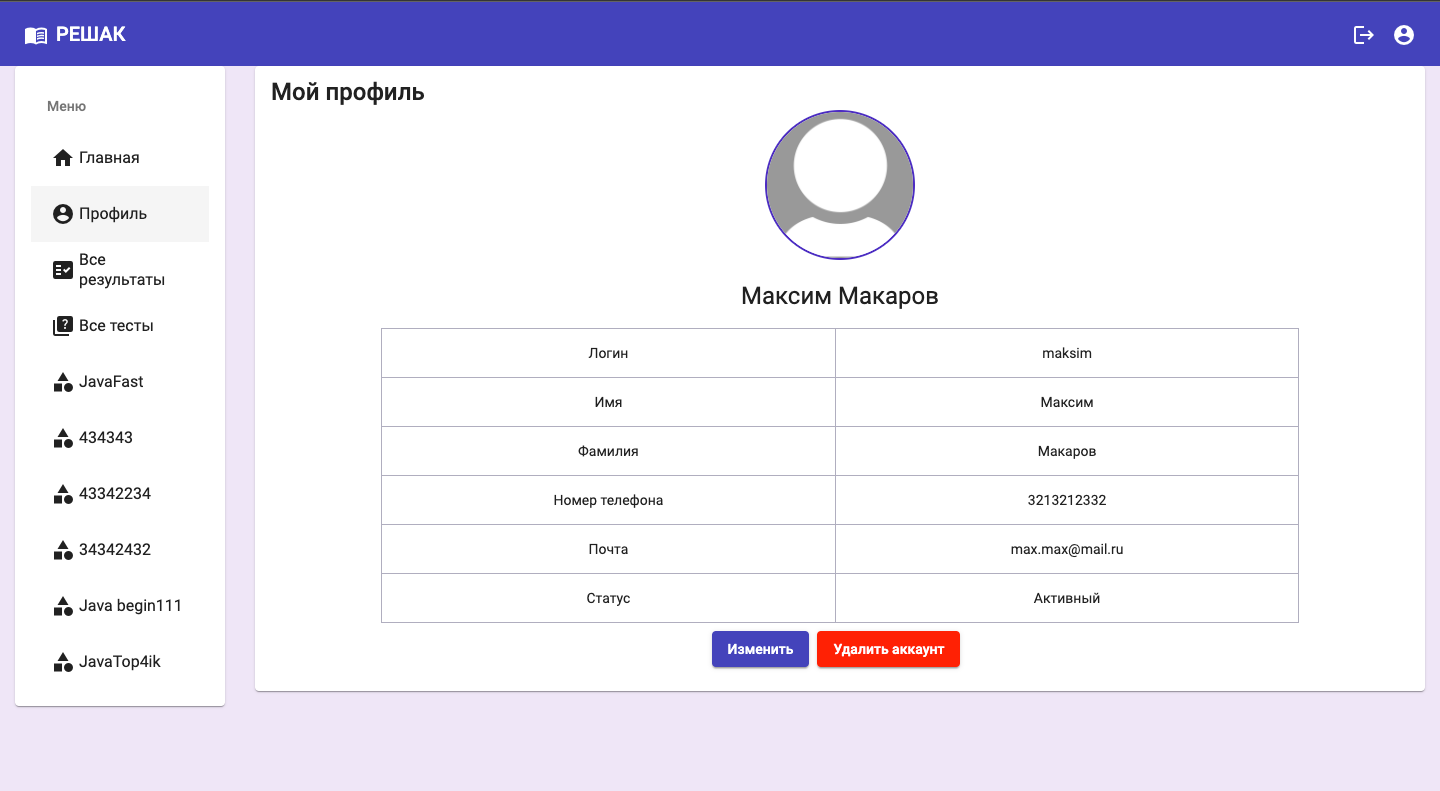
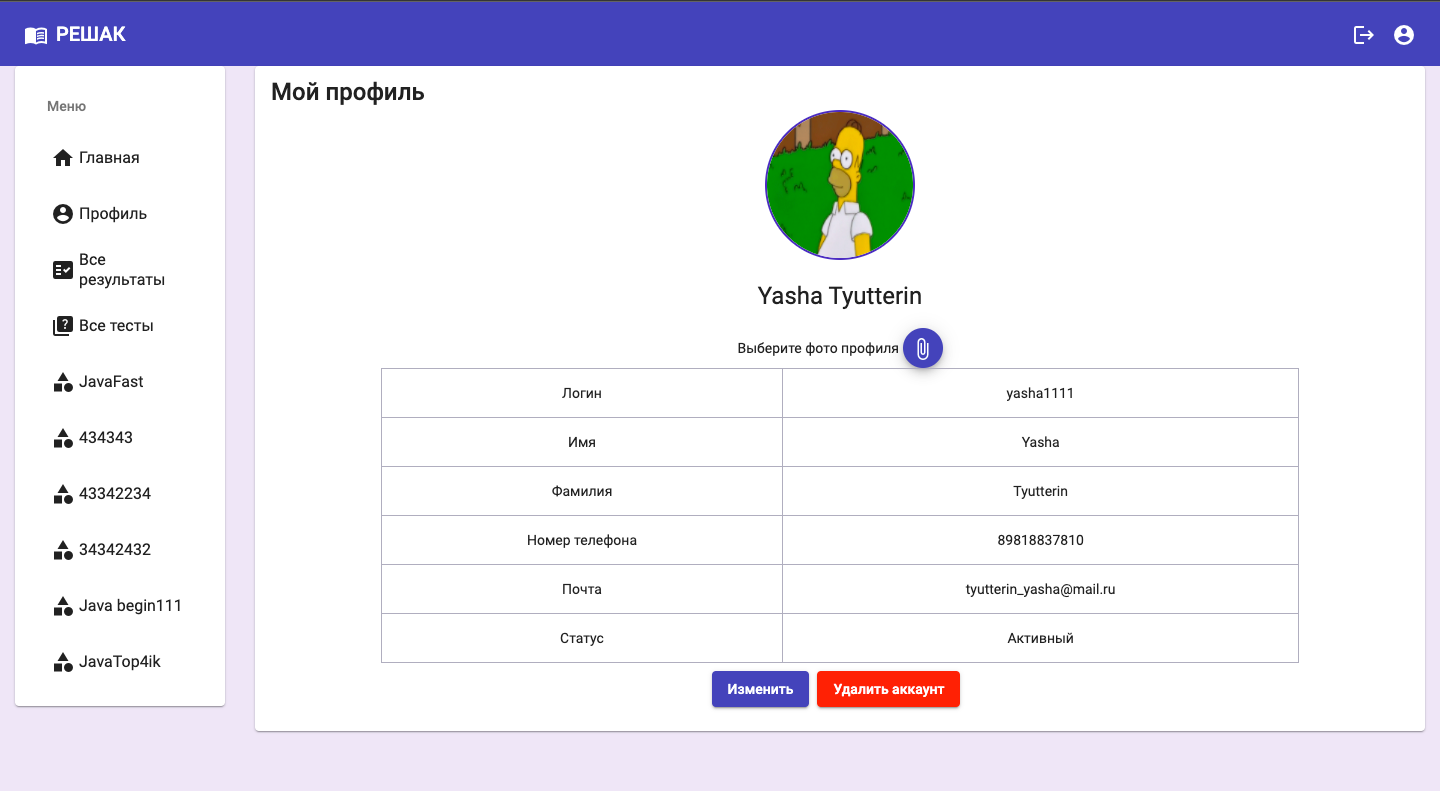
Add update and view profile image user and admin, refactoring

diff --git a/src/main/java/portal/controller/UserController.java b/src/main/java/portal/controller/UserController.java
@@ -1,5 +1,6 @@
 package portal.controller;
 
+import java.io.IOException;
 import java.security.Principal;
 
 import javax.validation.Valid;
@@ -13,11 +14,15 @@ import org.springframework.security.access.prepost.PreAuthorize;
 import org.springframework.validation.BindingResult;
 import org.springframework.web.bind.annotation.CrossOrigin;
 import org.springframework.web.bind.annotation.DeleteMapping;
+import org.springframework.web.bind.annotation.GetMapping;
 import org.springframework.web.bind.annotation.PostMapping;
 import org.springframework.web.bind.annotation.PutMapping;
 import org.springframework.web.bind.annotation.RequestBody;
 import org.springframework.web.bind.annotation.RequestMapping;
+import org.springframework.web.bind.annotation.RequestParam;
+import org.springframework.web.bind.annotation.ResponseBody;
 import org.springframework.web.bind.annotation.RestController;
+import org.springframework.web.multipart.MultipartFile;
 
 import portal.exception.InvalidDataException;
 import portal.exception.NotPermissionException;
@@ -32,11 +37,14 @@ import portal.service.UserService;
 public class UserController {
 
 	private static final Logger logger = LoggerFactory.getLogger(UserController.class);
-	@Autowired
+	
 	private UserService userService;
 	
-	
-	
+	@Autowired
+	public UserController(UserService userService) {
+		super();
+		this.userService = userService;
+	}
 	
 	@PostMapping("/")
 	public ResponseEntity<?> createUser(@RequestBody @Valid User user, BindingResult result) {
@@ -82,6 +90,44 @@ public class UserController {
 	public void deleteUser(Principal principal) {
 	
 		userService.deleteUser(principal.getName());
+	}
+	
+	@GetMapping("/image")
+	@PreAuthorize("hasAuthority('developers:read')")
+	public ResponseEntity<?> getImageProfile(Principal principal){
+		
+		try {
+			return ResponseEntity.ok(userService.getImageProfile(principal.getName()));
+		} catch (UserNotFoundException e) {
+			logger.error("Пользователь не найден", e);
+			return new ResponseEntity<>(HttpStatus.FORBIDDEN);
+		} catch (IOException e) {
+			logger.error("Ошибка при чтении файла", e);
+			return new ResponseEntity<>(HttpStatus.BAD_REQUEST);
+		} catch(NullPointerException ex) {
+			logger.error("Необходима переавторизация", ex);
+			return new ResponseEntity<>(HttpStatus.FORBIDDEN);
+		}
+	}
+	@PostMapping("/image")
+	@PreAuthorize("hasAuthority('developers:read')")
+	public ResponseEntity<?> addImageProfile(@RequestParam("image") MultipartFile file, Principal principal){
+		try {
+			if(file.isEmpty()||principal.getName().isEmpty()) {
+				throw new NullPointerException();
+			}
+			userService.addImageProfile(principal.getName(), file);
+			return new ResponseEntity<>(HttpStatus.OK);
+		} catch(NullPointerException ex) {
+			logger.error("Файл не отправлен или principal пуст", ex);
+			return new ResponseEntity<>(HttpStatus.BAD_REQUEST);
+		} catch(IOException e) {
+			logger.error("Ошибка при записи файла", e);
+			return new ResponseEntity<>(HttpStatus.BAD_REQUEST);
+		} catch (UserNotFoundException e) {
+			logger.error("Ошибка пользователя", e);
+			return new ResponseEntity<>(HttpStatus.FORBIDDEN);
+		}
 	}
 	
 }

diff --git a/src/main/java/portal/service/impl/UserServiceImpl.java b/src/main/java/portal/service/impl/UserServiceImpl.java
@@ -1,11 +1,13 @@
 package portal.service.impl;
 
+import java.io.IOException;
 import java.util.Optional;
 
 import org.springframework.beans.factory.annotation.Autowired;
 import org.springframework.security.crypto.bcrypt.BCryptPasswordEncoder;
 import org.springframework.security.crypto.password.PasswordEncoder;
 import org.springframework.stereotype.Service;
+import org.springframework.web.multipart.MultipartFile;
 
 import portal.dao.UserRepository;
 import portal.exception.NotPermissionException;
@@ -14,21 +16,28 @@ import portal.exception.UserNotFoundException;
 import portal.model.Role;
 import portal.model.User;
 import portal.service.UserService;
+import portal.util.UploadAndRemoveImage;
 
 @Service
 public class UserServiceImpl implements UserService{
 
+	private UserRepository userDao;
+	private UploadAndRemoveImage imageUtil;
 	
 	@Autowired
-	private UserRepository userDao;
-	
+	public UserServiceImpl(UserRepository userDao, UploadAndRemoveImage imageUtil) {
+		super();
+		this.userDao = userDao;
+		this.imageUtil = imageUtil;
+	}
 	
 	
 	public PasswordEncoder passwordEncoder()
 	{
 	    return new BCryptPasswordEncoder();
 	}
-	
+
+
 	@Override
 	public User createUser(User user) throws UserFoundException {
 		
@@ -82,5 +91,27 @@ public class UserServiceImpl implements UserService{
 		}
 		throw new UserNotFoundException();
 	}
+
+	@Override
+	public void addImageProfile(String name, MultipartFile file) throws IOException, UserNotFoundException {
+		User user = getUserByUsername(name);
+		String imageName = imageUtil.uploadImage(file, "images/profile");
+		imageUtil.deleteImage(user.getProfile(), "images/profile/");
+		user.setProfile(imageName);
+		userDao.save(user);
+	}
+	
+	@Override
+	public byte[] getImageProfile(String name) throws UserNotFoundException, IOException {
+		User user = getUserByUsername(name);
+		return imageUtil.getImage(user.getProfile(), "images/profile/");
+	}
+	
+	
+	private User getUserByUsername(String userName) throws UserNotFoundException {
+		return userDao.findByUserName(userName).orElseThrow(()->
+			new UserNotFoundException());
+	}
+
 
 }

diff --git a/src/main/java/portal/service/impl/ExamResultServiceImpl.java b/src/main/java/portal/service/impl/ExamResultServiceImpl.java
@@ -11,6 +11,7 @@ import portal.dao.ExamResultRepository;
 import portal.dao.QuestionRepository;
 import portal.dao.UserRepository;
 import portal.exception.InvalidDataException;
+import portal.exception.UserFoundException;
 import portal.exception.UserNotFoundException;
 import portal.model.ExamResult;
 import portal.model.Question;
@@ -58,13 +59,18 @@ public class ExamResultServiceImpl implements ExamResultService {
 
 
 	@Override
-	public ExamResult getExamResult(String name, List<Question> questions) throws UserNotFoundException, InvalidDataException {
+	public ExamResult getExamResult(String name, List<Question> questions) throws UserNotFoundException, InvalidDataException, UserFoundException {
+		
 		int validQuestion=0;
 		int invalidQuestion=0;
 		int skipQuestion=0;
-		
-		Map<String, Map<String, String>> allExamResult = new HashMap<>();
+		User user = userDao.findByUserName(name).orElseThrow(()->
+			new UserNotFoundException("Результат теста не записан! Пользователь не найден"));
 		Quize quize = questions.get(0).getQuize();
+		if(!examResultDao.findAllByUserAndQuize(user, quize).isEmpty()) {
+			throw new UserFoundException(user.toString());
+		}
+		Map<String, Map<String, String>> allExamResult = new HashMap<>();
 		for(Question q: questions){
 			Map<String, String> givenAndAnswer = new HashMap<>();
 			Question question = questionDao.findById(q.getQuestionId()).orElseThrow(()->new InvalidDataException());
@@ -86,8 +92,6 @@ public class ExamResultServiceImpl implements ExamResultService {
 		result.setSkipQuestion(skipQuestion);
 		result.setValidQustion(validQuestion);
 		result.setCountPoints(validQuestion*quize.getMaxMarks()/quize.getCountOfQuestion()); 
-		User user = userDao.findByUserName(name).orElseThrow(()->
-			new UserNotFoundException("Результат теста не записан! Пользователь не найден"));
 		result.setUser(user);
 		result.setQuize(quize);
 		result.setQuestionsAndGivenAnswer(allExamResult);

diff --git a/src/main/java/portal/util/UploadAndRemoveImage.java b/src/main/java/portal/util/UploadAndRemoveImage.java
@@ -1,0 +1,48 @@
+package portal.util;
+
+import java.io.File;
+import java.io.IOException;
+import java.nio.file.Files;
+import java.nio.file.Path;
+import java.nio.file.Paths;
+import java.util.UUID;
+
+import org.springframework.stereotype.Component;
+import org.springframework.web.multipart.MultipartFile;
+
+@Component
+public class UploadAndRemoveImage {
+	private static final String uploadDir = System.getProperty("user.dir")+"/src/main/resources/static/";
+	
+	public String uploadImage(MultipartFile file, String src) throws IOException {
+		String imageUUID;
+		if(!file.isEmpty()) {
+			int position = file.getContentType().indexOf("/");
+			String type = file.getContentType().substring(position+1);
+			imageUUID = UUID.randomUUID()+"."+type;
+			Path fileNameAndPath = Paths.get(uploadDir+src, imageUUID);
+			
+			Files.write(fileNameAndPath, file.getBytes());
+		} else {
+			imageUUID = "noimage.png";
+		}
+		return imageUUID;
+		
+	}
+	
+	public void deleteImage(String imageName, String src) {
+		if(!imageName.equals("noimage.png")) {
+		File file = new File(uploadDir+src+imageName);
+		if(file.exists()) {
+			file.delete();
+		}
+		}
+	}
+	
+	public byte[] getImage(String imageName, String src) throws IOException {
+		File file = new File(uploadDir+src+imageName);
+		Path path = Paths.get(file.toURI());
+		return Files.readAllBytes(path);
+	}
+	
+}

diff --git a/src/main/java/portal/service/ExamResultService.java b/src/main/java/portal/service/ExamResultService.java
@@ -4,6 +4,7 @@ import java.util.List;
 
 
 import portal.exception.InvalidDataException;
+import portal.exception.UserFoundException;
 import portal.exception.UserNotFoundException;
 import portal.model.ExamResult;
 import portal.model.Question;
@@ -12,6 +13,6 @@ public interface ExamResultService {
 	public List<ExamResult> getAllResultFromQuize(Long id);
 	public List<ExamResult> checkUserResultExam(String name, Long id) throws UserNotFoundException;
 	public void removeExamResult(Long id);
-	public ExamResult getExamResult(String name, List<Question> questions) throws UserNotFoundException, InvalidDataException;
+	public ExamResult getExamResult(String name, List<Question> questions) throws UserNotFoundException, InvalidDataException, UserFoundException;
 	public List<ExamResult> checkUserAllResultExam(String name) throws UserNotFoundException;
 }

diff --git a/src/main/java/portal/controller/ExamResultController.java b/src/main/java/portal/controller/ExamResultController.java
@@ -19,6 +19,7 @@ import org.springframework.web.bind.annotation.RequestMapping;
 import org.springframework.web.bind.annotation.RestController;
 
 import portal.exception.InvalidDataException;
+import portal.exception.UserFoundException;
 import portal.exception.UserNotFoundException;
 import portal.model.ExamResult;
 import portal.model.Question;
@@ -73,6 +74,9 @@ public class ExamResultController {
 		} catch(InvalidDataException e) {
 			logger.error(questions.toString(), e);
 			return new ResponseEntity<>("Вопрос не найден", HttpStatus.BAD_REQUEST);
+		} catch (UserFoundException exception) {
+			logger.error(principal.getName(), exception);
+			return new ResponseEntity<>("Вы уже решили этот тест", HttpStatus.FORBIDDEN);
 		}
 	}
 	

diff --git a/src/main/java/portal/service/UserService.java b/src/main/java/portal/service/UserService.java
@@ -1,6 +1,10 @@
 package portal.service;
 
 
+import java.io.IOException;
+
+import org.springframework.web.multipart.MultipartFile;
+
 import portal.exception.NotPermissionException;
 import portal.exception.UserFoundException;
 import portal.exception.UserNotFoundException;
@@ -12,5 +16,7 @@ public interface UserService {
 	public void deleteUser(String userName);
 	public User createUser(User user) throws UserFoundException;
 	public User updateUser(String name, User user) throws NotPermissionException, UserNotFoundException;
+	public void addImageProfile(String name, MultipartFile file) throws IOException, UserNotFoundException;
+	public byte[] getImageProfile(String name) throws UserNotFoundException, IOException;
 	
 }

diff --git a/src/main/java/portal/service/impl/LoginServiceImpl.java b/src/main/java/portal/service/impl/LoginServiceImpl.java
@@ -5,6 +5,7 @@ import java.util.Map;
 
 import javax.transaction.Transactional;
 
+import org.springframework.beans.factory.annotation.Autowired;
 import org.springframework.security.authentication.AuthenticationManager;
 import org.springframework.security.authentication.UsernamePasswordAuthenticationToken;
 import org.springframework.security.core.AuthenticationException;
@@ -23,6 +24,7 @@ public class LoginServiceImpl {
 	private UserService userService;
 	private JwtTokenProvider jwtProvider;
 	
+	@Autowired
 	public LoginServiceImpl(AuthenticationManager authManager, UserService userService, JwtTokenProvider jwtProvider) {
 		super();
 		this.authManager = authManager;

diff --git a/src/main/java/portal/controller/LoginController.java b/src/main/java/portal/controller/LoginController.java
@@ -7,6 +7,7 @@ import javax.servlet.http.HttpServletResponse;
 
 import org.slf4j.Logger;
 import org.slf4j.LoggerFactory;
+import org.springframework.beans.factory.annotation.Autowired;
 import org.springframework.http.HttpStatus;
 import org.springframework.http.ResponseEntity;
 import org.springframework.security.core.AuthenticationException;
@@ -33,7 +34,7 @@ public class LoginController {
 	private UserDetailsServiceImpl userDetailsService;
 	private LoginServiceImpl loginService;
 	
-	
+	@Autowired
 	public LoginController(UserDetailsServiceImpl userDetailsService, LoginServiceImpl loginService) {
 		super();
 		this.userDetailsService = userDetailsService;

diff --git a/src/main/java/portal/service/impl/QuizeServiceImpl.java b/src/main/java/portal/service/impl/QuizeServiceImpl.java
@@ -18,13 +18,18 @@ import portal.service.QuizeService;
 @Service
 public class QuizeServiceImpl implements QuizeService{
 
-	@Autowired
 	private QuizeRepository quizeDao;
-	@Autowired
 	private QuestionRepository questionDao;
-	@Autowired
 	private CategoryRepository categoryDao;
 	
+	@Autowired
+	public QuizeServiceImpl(QuizeRepository quizeDao, QuestionRepository questionDao, CategoryRepository categoryDao) {
+		super();
+		this.quizeDao = quizeDao;
+		this.questionDao = questionDao;
+		this.categoryDao = categoryDao;
+	}
+
 	@Override
 	public Quize addQuize(Quize quize) {
 		quize.setCountOfQuestion(0); 

diff --git a/src/main/java/portal/controller/QuestionController.java b/src/main/java/portal/controller/QuestionController.java
@@ -32,10 +32,15 @@ import portal.service.QuestionService;
 public class QuestionController {
 	private static final Logger logger = LoggerFactory.getLogger(QuestionController.class);
 	
-	@Autowired
 	private QuestionService questionService;
 	
-	
+	@Autowired
+	public QuestionController(QuestionService questionService) {
+		super();
+		this.questionService = questionService;
+	}
+
+
 	@GetMapping("/{id}")
 	@PreAuthorize("hasAuthority('developers:write')")
 	public Question getQuestion(@PathVariable Long id){

diff --git a/src/main/java/portal/controller/CategoryController.java b/src/main/java/portal/controller/CategoryController.java
@@ -33,9 +33,15 @@ public class CategoryController {
 
 	private static final Logger logger = LoggerFactory.getLogger(CategoryController.class);
 	
-	@Autowired
 	private CategoryService categoryService;
 	
+	@Autowired
+	public CategoryController(CategoryService categoryService) {
+		super();
+		this.categoryService = categoryService;
+	}
+
+
 	@PostMapping("/")
 	@PreAuthorize("hasAuthority('developers:write')")
 	public ResponseEntity<?> addCategory(@RequestBody @Valid Category cat, BindingResult result) {
